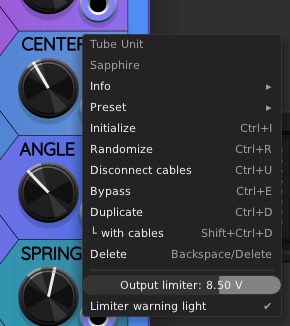
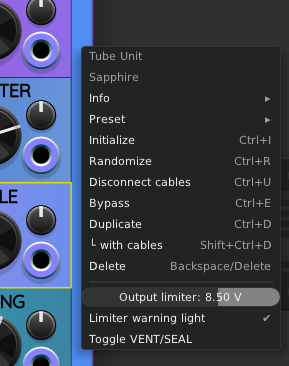
Tube Unit: documented the VENT/SEAL toggle.

diff --git a/TubeUnit.md b/TubeUnit.md
@@ -88,10 +88,11 @@ harder to stretch, resulting in faster piston vibrations.
 
 ### Other inputs
 
-* **VENT**: A gate input that rapidly opens the spheroid chamber and allows all the air to escape.
+* **VENT** / **SEAL**: <a name="vent_port"></a>A gate input that rapidly opens the spheroid chamber and allows all the air to escape.
+This gate also cuts off any input audio supplied through the ports at the bottom left.
 The vent opens when the voltage exceeds +1.0V and stays open until the voltage decreases below +0.1V.
 This is known as *Schmitt trigger* logic, and prevents unwanted oscillations in the vent control
-due to slight variations in the input voltage.
+due to slight variations in the input voltage. The VENT can be [toggled to an opposite SEAL mode](#vent_seal_toggle) using the context menu.
 * **L** and **R** audio inputs: Although Tube Unit is primarily designed for synthesizing sounds,
 it is also possible to inject external audio signals directly into the resonant tube. These signals
 are mixed with pressure signals caused by air escaping from the piston/valve assembly. Because
@@ -132,7 +133,8 @@ Tube Unit's context menu looks like this:
 
 ![Tube Unit context menu](./images/tubeunit_menu.png)
 
-It includes options for controlling a built-in output limiter,
+It includes options for controlling a built-in output limiter
+and for toggling the upper left input gate between VENT and SEAL,
 as described below.
 
 ### Output limiter
@@ -193,3 +195,34 @@ for this in the right-click context menu labeled
 will toggle whether the warning light turns on
 when the limiter is active. The warning light option
 defaults to being enabled.
+
+<a name="vent_seal_toggle"></a>
+### Toggling between VENT mode and SEAL mode
+As [mentioned above](#vent_port), there is a VENT port in the upper left
+corner of the panel.
+
+![Tube Unit in VENT mode](./images/tubeunit_vent_mode.png)
+
+In VENT mode, the gate
+defaults to allowing sound generation. If a cable
+is connected, a low signal (below +0.1V) allows
+Tube Unit to make sounds, a high signal (above +1.0V)
+causes Tube Unit to decay to silence, and any value
+in the gray area between +0.1V and +1.0V causes
+Tube Unit to remain in the same state.
+
+However, if you right-click and enable the
+"Toggle VENT/SEAL" option like this,
+
+![Tube Unit in SEAL mode](./images/tubeunit_menu_seal_mode.png)
+
+then the VENT label changes to SEAL:
+
+![Tube Unit in SEAL mode](./images/tubeunit_seal_mode.png)
+
+SEAL mode inverts the logic of the port so that when it is low
+(or unplugged) Tube Unit remains silent. When the SEAL input is
+high, Tube Unit starts making sound.
+
+The VENT/SEAL input is polyphonic just like all the
+other input ports in Tube Unit.
